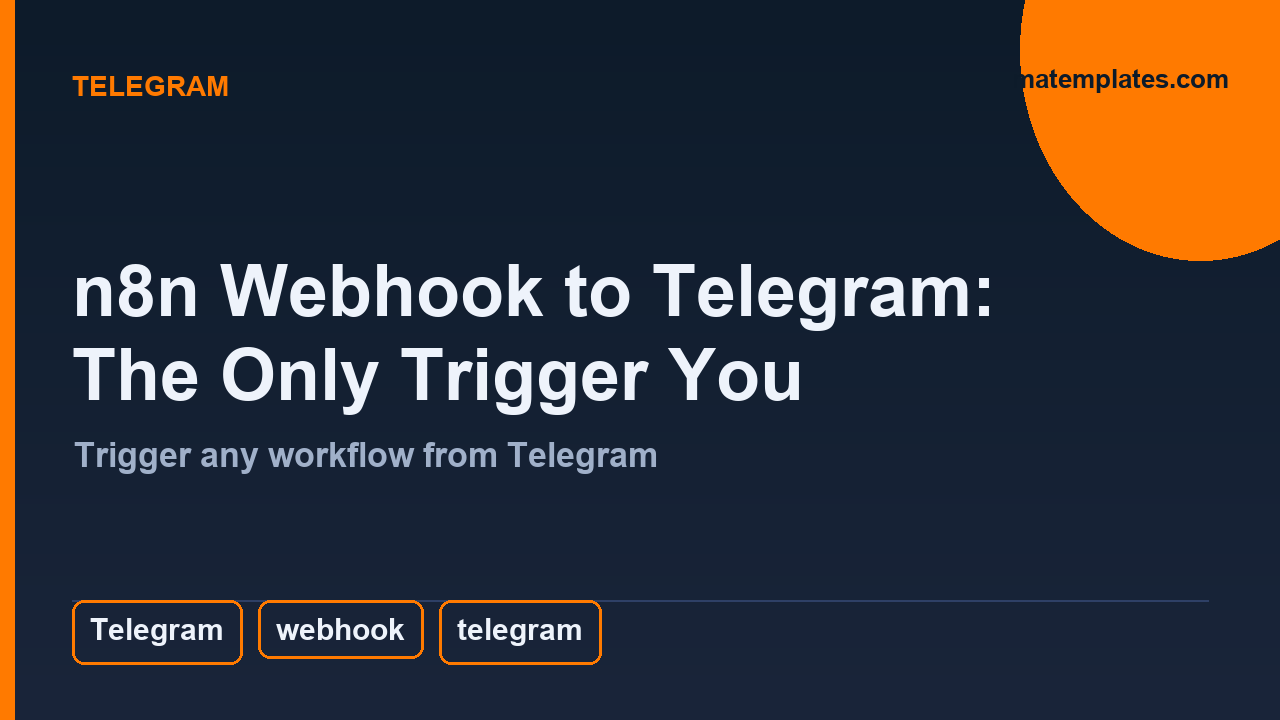
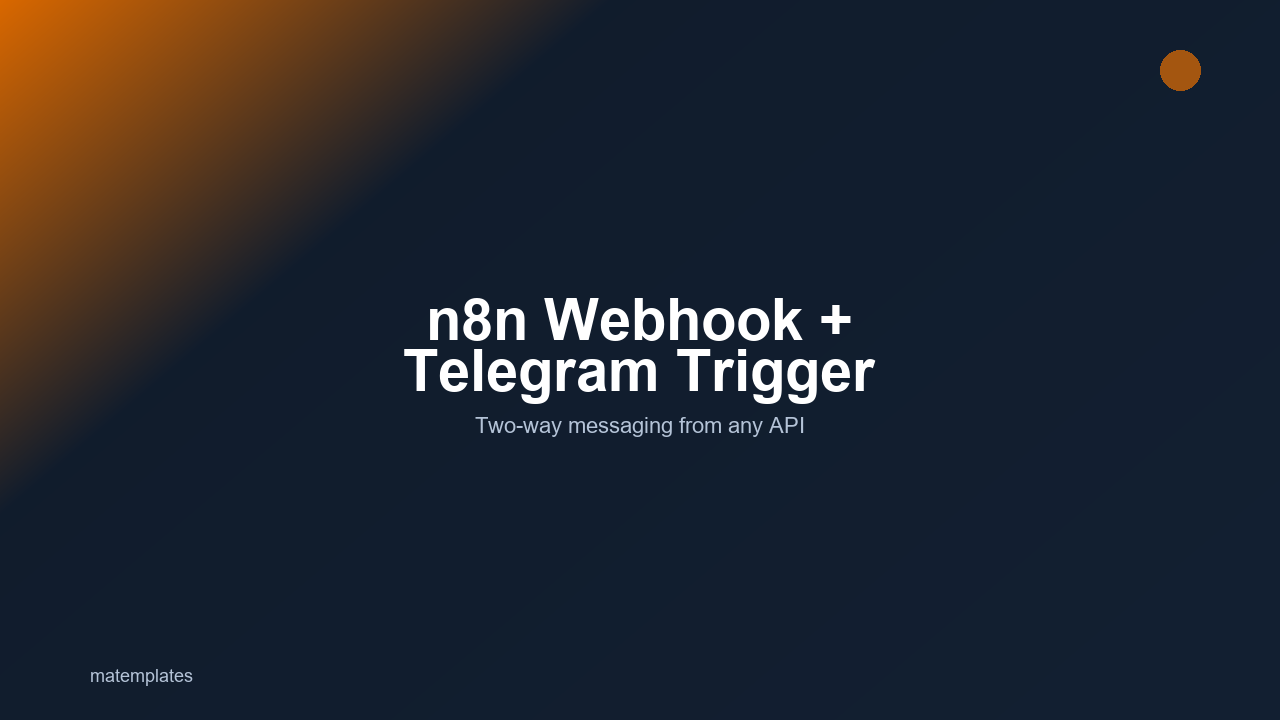
unify all 16 cover images to consistent centered design style
- Regenerated all covers with centered title, gradient bg, consistent typography
- Added generate_covers.py for reproducible cover generation
- All 16 covers now 1280x720, ~93% symmetry, <4% off-center

diff --git a/generate_covers.py b/generate_covers.py
@@ -1,0 +1,148 @@
+#!/usr/bin/env python3
+"""
+matemplates.com cover image generator
+Produces 1280x720 (16:9) cover PNGs with the unified brand style:
+  - Diagonal gradient: orange (top-left) → dark navy (center/bottom-right)
+  - Centered title text (white, bold)
+  - Small subtitle text (light gray, below title)
+  - "matemplates" branding at bottom-left
+  - Subtle n8n logo accent at top-right
+"""
+import math
+import os
+import sys
+from PIL import Image, ImageDraw, ImageFont
+
+W, H = 1280, 720
+FONT_DIR = "C:/Windows/Fonts"
+OUT_DIR = os.path.join(os.path.dirname(__file__), "brand-assets", "covers") if len(sys.argv) < 3 else sys.argv[2]
+
+# Brand colors
+ORANGE = (255, 122, 0)
+DARK_BG = (19, 32, 50)
+NAVY = (25, 36, 57)
+WHITE = (255, 255, 255)
+LIGHT_GRAY = (180, 195, 215)
+ACCENT_ORANGE = (164, 86, 16)
+
+# Cover data: (filename, title, subtitle)
+COVERS = [
+    # Template products
+    ("real-estate-lead-enrichment.png", "Real Estate\nLead Enrichment", "Scrape, AI-score, and route hot leads"),
+    ("gumroad-sales-notifier.png", "Gumroad\nSales Notifier", "Instant alerts for every new sale"),
+    ("invoice-followup.png", "Invoice\nFollow-Up", "From overdue to paid, on autopilot"),
+    ("cold-outreach.png", "Cold\nOutreach", "Personalized sequences at scale"),
+    ("support-triage.png", "Customer Support\nTriage", "Auto-tag and route inbound requests"),
+    # Blog posts
+    ("auto-chase-overdue-invoices-n8n.png", "Auto-Chase\nOverdue Invoices", "n8n sends polite nudges until they pay"),
+    ("cold-outreach-that-converts.png", "Cold Outreach\nThat Converts", "Why most outreach fails and how to fix it"),
+    ("gumroad-sale-telegram-alert.png", "Gumroad Sale\nTelegram Alert", "Get notified the second a sale lands"),
+    ("n8n-vs-zapier-solopreneur.png", "n8n vs Zapier\nfor Solopreneurs", "Which automation tool is worth your time"),
+    ("n8n-webhook-telegram-trigger.png", "n8n Webhook +\nTelegram Trigger", "Two-way messaging from any API"),
+    ("no-code-crm-google-sheets-n8n.png", "No-Code CRM\nin Google Sheets", "Build a pipeline without SaaS bills"),
+    ("real-estate-lead-enrichment-n8n.png", "Real Estate\nLead Enrichment", "n8n workflow for lead scoring and routing"),
+    ("solopreneur-n8n-automations.png", "n8n for\nSolopreneurs", "Automate without engineers"),
+    # Special products
+    ("automation-club.png", "n8n\nAutomation Club", "Premium workflows and community access"),
+    ("free-lead-sampler.png", "Free Lead\nEnrichment Sampler", "Try the workflow before you buy"),
+    ("starter-pack.png", "n8n\nStarter Pack", "Five essential workflows to get going"),
+]
+
+
+def make_gradient(w, h):
+    """Create the diagonal gradient background: orange top-left → navy bottom-right."""
+    import numpy as np
+    xs = np.linspace(0, 1, w)
+    ys = np.linspace(0, 1, h)
+    xx, yy = np.meshgrid(xs, ys)
+    diag = np.clip(xx * 0.6 + yy * 0.4, 0, 1)
+
+    orange_w = np.clip(1.0 - diag * 3.5, 0, 1)
+    dark = 0.85 + 0.15 * diag
+
+    r = ((ORANGE[0] * orange_w + DARK_BG[0] * (1 - orange_w)) * dark).astype(np.uint8)
+    g = ((ORANGE[1] * orange_w + DARK_BG[1] * (1 - orange_w)) * dark).astype(np.uint8)
+    b = ((ORANGE[2] * orange_w + DARK_BG[2] * (1 - orange_w)) * dark).astype(np.uint8)
+
+    arr = np.stack([r, g, b], axis=2)
+    return Image.fromarray(arr, "RGB")
+
+
+def draw_text_centered(draw, text, y, font, fill, max_width=1100):
+    """Draw multi-line text centered horizontally."""
+    lines = text.split("\n")
+    total_height = 0
+    line_sizes = []
+    for line in lines:
+        bbox = font.getbbox(line)
+        lw = bbox[2] - bbox[0]
+        lh = bbox[3] - bbox[1]
+        line_sizes.append((lw, lh, line))
+        total_height += lh + 8
+
+    cy = y
+    for lw, lh, line in line_sizes:
+        x = (W - lw) // 2
+        draw.text((x, cy), line, font=font, fill=fill)
+        cy += lh + 8
+    return cy
+
+
+def generate_cover(filename, title, subtitle):
+    """Generate a single cover image."""
+    img = make_gradient(W, H)
+    draw = ImageDraw.Draw(img)
+
+    # Load fonts
+    try:
+        title_font = ImageFont.truetype(os.path.join(FONT_DIR, "arialbd.ttf"), 58)
+    except Exception:
+        title_font = ImageFont.truetype(os.path.join(FONT_DIR, "bahnschrift.ttf"), 58)
+
+    try:
+        sub_font = ImageFont.truetype(os.path.join(FONT_DIR, "arial.ttf"), 22)
+    except Exception:
+        sub_font = ImageFont.truetype(os.path.join(FONT_DIR, "bahnschrift.ttf"), 22)
+
+    try:
+        brand_font = ImageFont.truetype(os.path.join(FONT_DIR, "arial.ttf"), 18)
+    except Exception:
+        brand_font = ImageFont.truetype(os.path.join(FONT_DIR, "bahnschrift.ttf"), 18)
+
+    # Draw title centered vertically
+    lines = title.split("\n")
+    title_height = sum(title_font.getbbox(l)[3] - title_font.getbbox(l)[1] + 8 for l in lines) - 8
+    title_y = (H - title_height) // 2 - 20  # slightly above center
+    draw_text_centered(draw, title, title_y, title_font, WHITE)
+
+    # Draw subtitle below title
+    sub_y = title_y + title_height + 20
+    bbox = sub_font.getbbox(subtitle)
+    sw = bbox[2] - bbox[0]
+    draw.text(((W - sw) // 2, sub_y), subtitle, font=sub_font, fill=LIGHT_GRAY)
+
+    # Draw "matemplates" branding at bottom-left
+    brand_text = "matemplates"
+    bbox_b = brand_font.getbbox(brand_text)
+    bw = bbox_b[2] - bbox_b[0]
+    draw.text((90, H - 55), brand_text, font=brand_font, fill=LIGHT_GRAY)
+
+    # Subtle n8n accent dot (top-right area)
+    draw.ellipse([W - 120, 50, W - 80, 90], fill=ACCENT_ORANGE)
+
+    return img
+
+
+def main():
+    os.makedirs(OUT_DIR, exist_ok=True)
+    for filename, title, subtitle in COVERS:
+        img = generate_cover(filename, title, subtitle)
+        path = os.path.join(OUT_DIR, filename)
+        img.save(path, "PNG", optimize=True)
+        print(f"  ✓ {filename}")
+
+    print(f"\n{len(COVERS)} covers generated → {OUT_DIR}")
+
+
+if __name__ == "__main__":
+    main()
